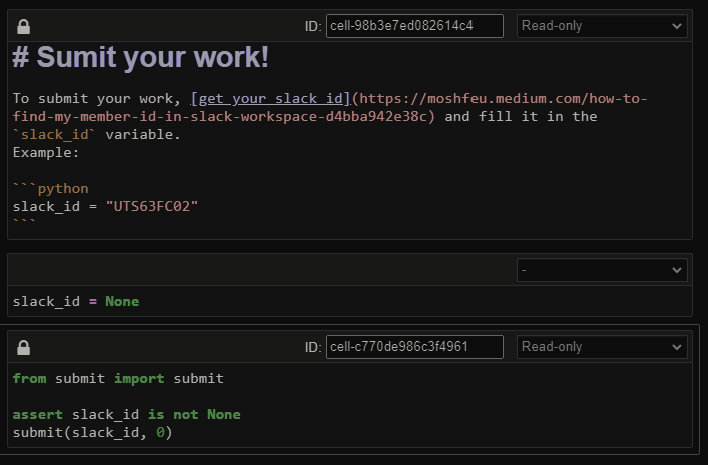
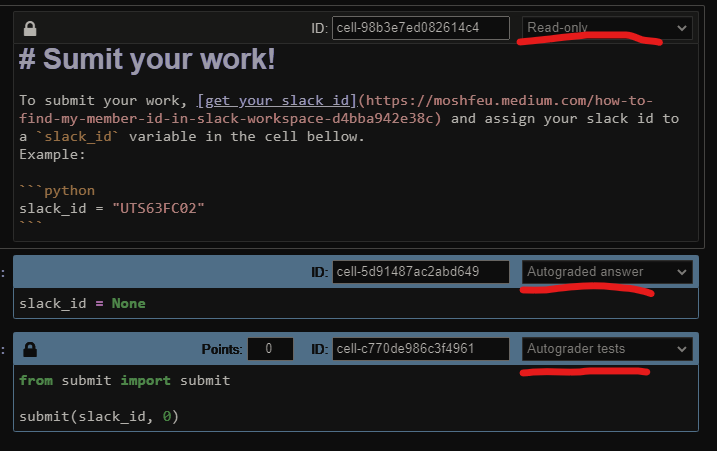
updated readme and example with submission examples

diff --git a/README.md b/README.md
@@ -23,16 +23,15 @@ To submit your work, [get your slack id](https://moshfeu.medium.com/how-to-find-
 Example: `slack_id = "UTS63FC02"`
 ```
 
-**Cell 2** code, normal
+**Cell 2** code, Autograded Answer
 ```python
 slack_id = None
 ```
 
-**Cell 3** code, read-only
+**Cell 3** code, Autograded tests
 ```python
 from submit import submit
 
-assert slack_id is not None
 submit(slack_id, 0)
 ```
 
